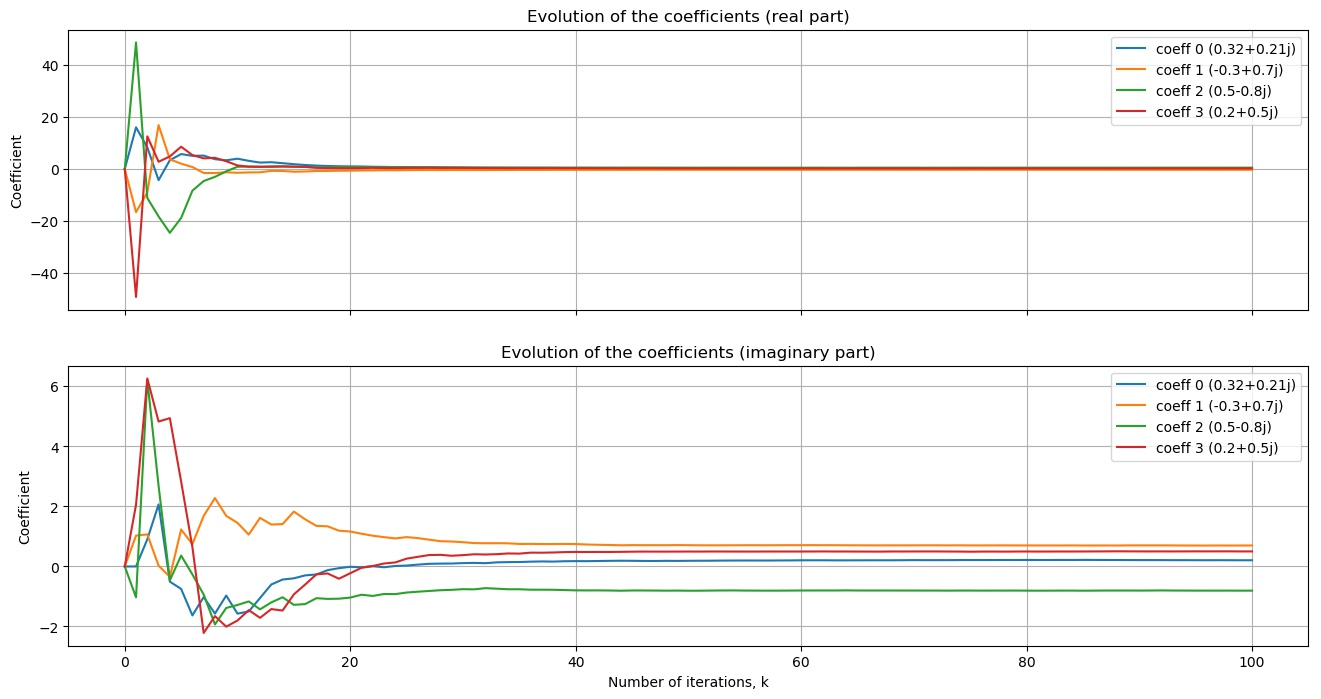
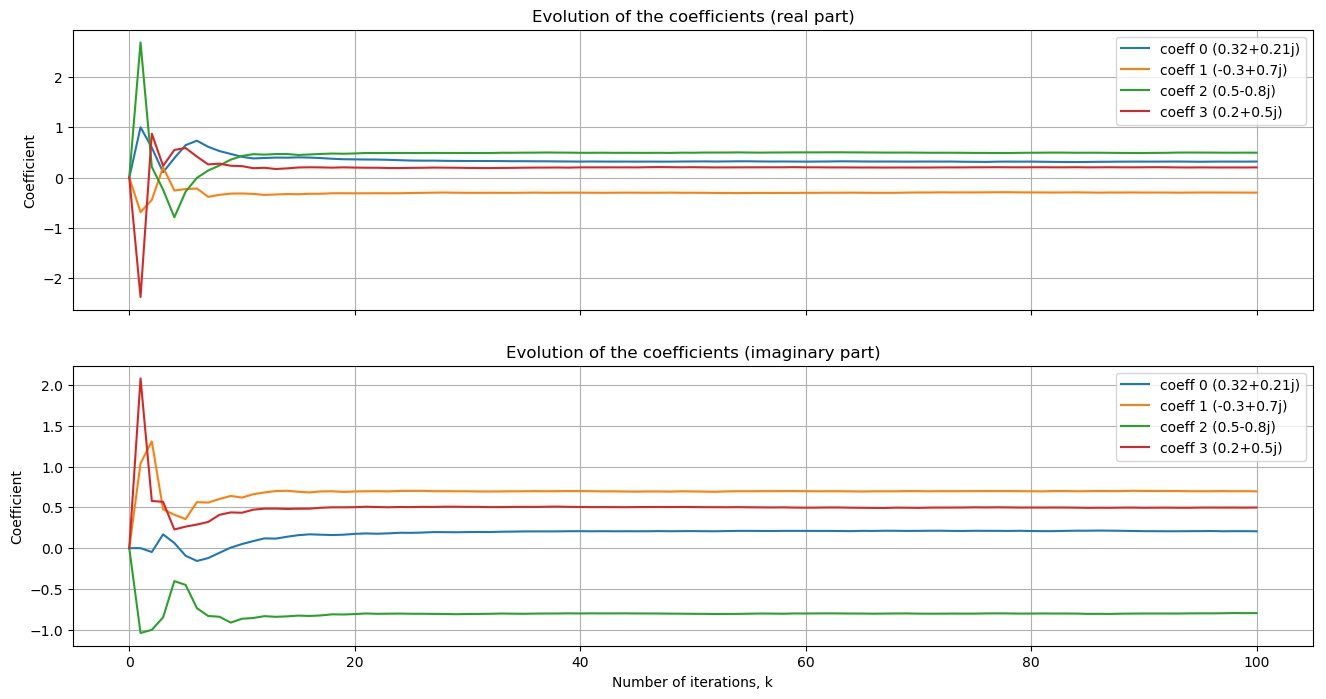
Fixing Transform Domain DCT

diff --git a/adaptive_filtering/lms.py b/adaptive_filtering/lms.py
@@ -301,6 +301,15 @@ class TransformDomainDCT(LMS):
     def __str__(self):
         return "TransformDomainDCT(step={}, filter_order={}, alpha={}, gamma={}, init_power={})".format(self.step, self.filter_order, self.alpha, self.gamma, self.init_power)
         
+    def get_DCT_matrix(self, size):
+        '''Calculate the square DCT transform matrix. Results are 
+        equivalent to Matlab dctmtx(n) with 64 bit precision.'''
+        DCTmx = np.array(range(size),np.float64).repeat(size).reshape(size,size)
+        DCTmxT = np.pi * (DCTmx.transpose()+0.5) / size
+        DCTmxT = (1.0/np.sqrt( size / 2.0)) * np.cos(DCTmx * DCTmxT)
+        DCTmxT[0] = DCTmxT[0] * (np.sqrt(2.0)/2.0)
+        return DCTmxT
+
     def fit(self, d, x):
         # Pre allocations
         self.d = np.array(d)        
@@ -310,7 +319,7 @@ class TransformDomainDCT(LMS):
         self.error_vector = np.zeros([self.n_iterations], dtype=complex)
         self.coef_vector = np.zeros([self.n_iterations+1, self.n_coef], dtype=complex)
         self.coef_vector_dct = np.zeros([self.n_iterations+1, self.n_coef], dtype=complex)
-        self.T = dct(np.eye(self.n_coef), axis=0)
+        self.T = self.get_DCT_matrix(self.n_coef)
         T_hermitian = np.conj(np.transpose(self.T))        
         self.power_vector = self.init_power*np.ones(self.n_coef)        
         self.coef_vector_dct[0] = np.dot(self.T, self.init_coef)
